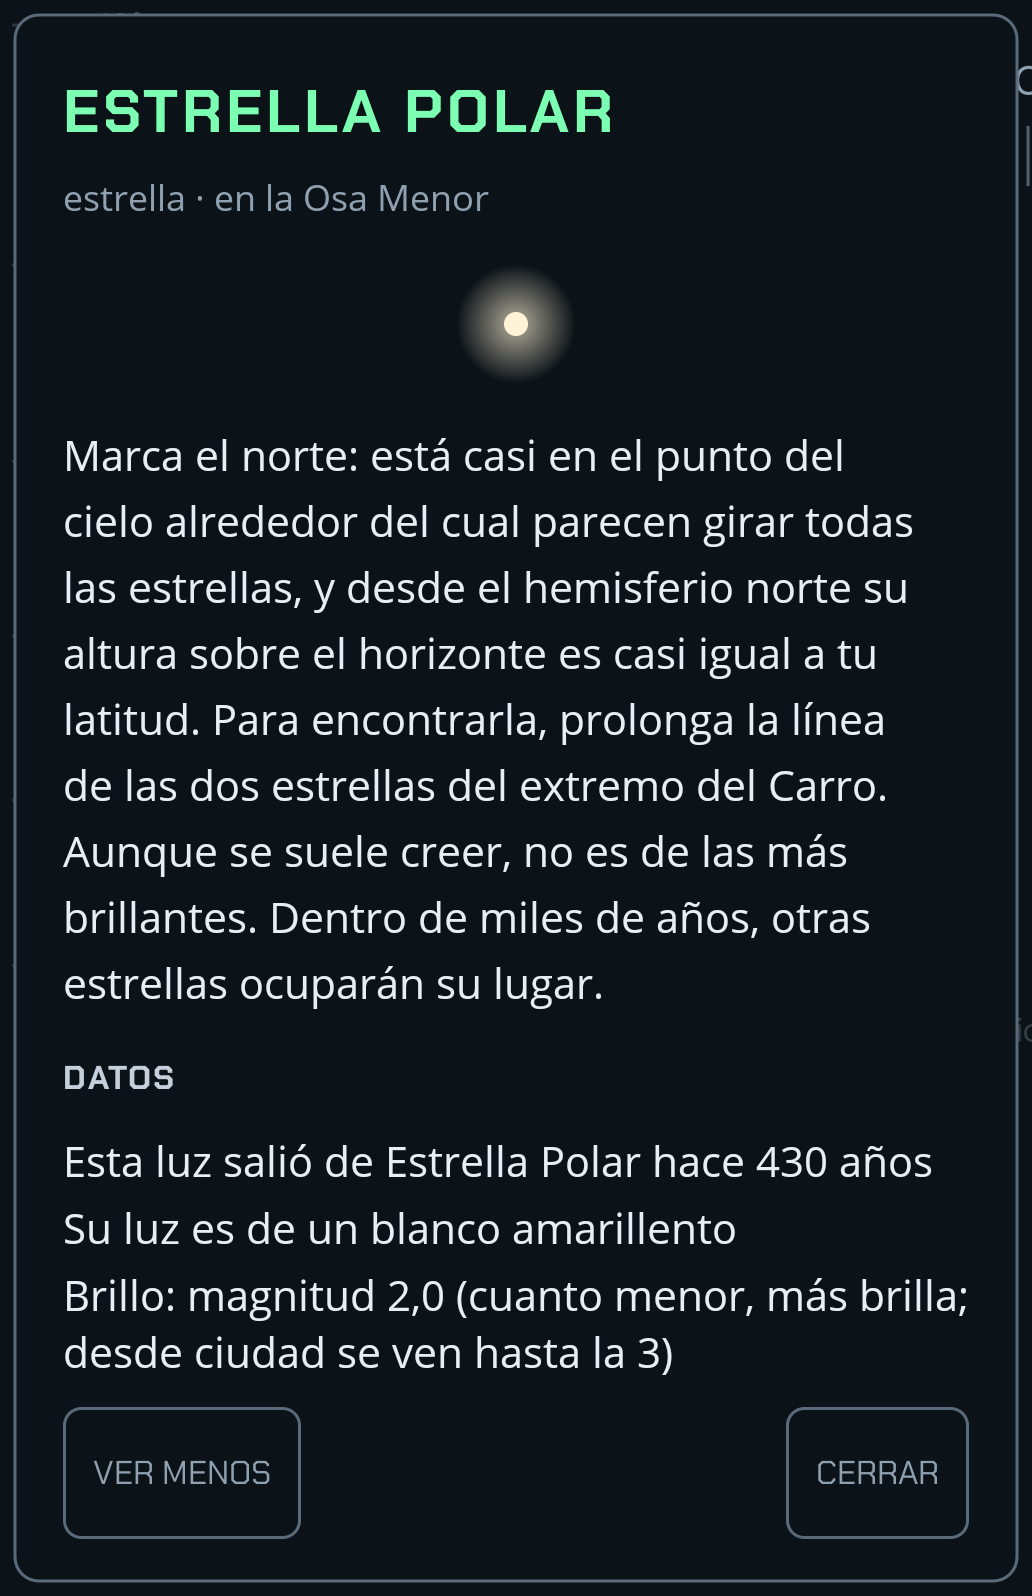
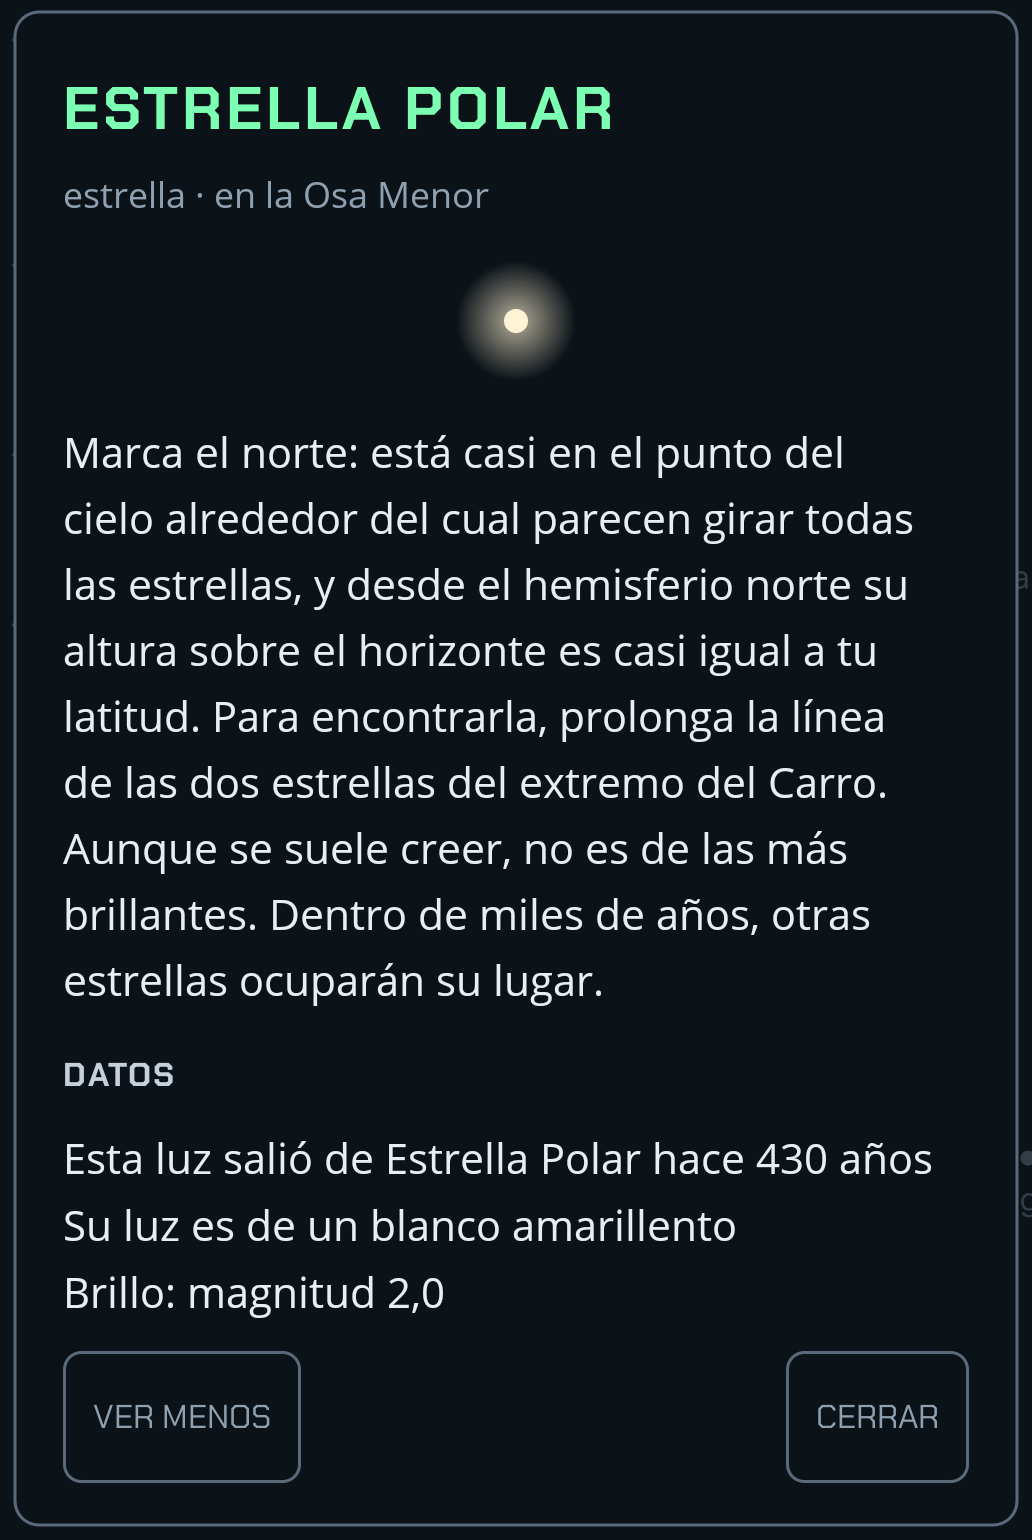
Show a star's brightness as just its magnitude
Drops the explanation of the backwards scale, at the user's request after
seeing the cards with their texts (decision 046, corrects 044).

diff --git a/src/CieloHud.Core/Cards/FactsText.cs b/src/CieloHud.Core/Cards/FactsText.cs
@@ -196,14 +196,14 @@ public static class FactsText
     };
 
     /// <summary>
-    /// "Brillo: magnitud 0,4 (cuanto menor, más brilla; desde ciudad se ven hasta la 3)". The scale runs backwards, so the
-    /// number alone would mislead; the city limit is the one the catalog is built on (decision 015).
+    /// "Brillo: magnitud 0,4". Just the number: the explanation of the backwards scale ("cuanto menor, más brilla…") was
+    /// dropped after seeing the cards with their texts (decision 046).
     /// </summary>
     public static string StarMagnitude(double magnitude)
     {
         var rounded = Math.Round(magnitude, 1, MidpointRounding.AwayFromZero);
         var number = Math.Abs(rounded).ToString("0.0", Culture).Replace('.', ',');
-        return $"Brillo: magnitud {(rounded < 0 ? "−" : "")}{number} (cuanto menor, más brilla; desde ciudad se ven hasta la 3)";
+        return $"Brillo: magnitud {(rounded < 0 ? "−" : "")}{number}";
     }
 
     /// <summary>8.64 → 8.6, 432.6 → 430, 1157 → 1200 (or 1100 rounding down).</summary>

diff --git a/tests/CieloHud.Core.Tests/Cards/StarColorsTests.cs b/tests/CieloHud.Core.Tests/Cards/StarColorsTests.cs
@@ -61,8 +61,8 @@ public class StarColorsTests
     [InlineData(0.42, "0,4")]
     [InlineData(2.02, "2,0")]
     [InlineData(-0.05, "−0,1")]
-    public void MagnitudeText_ExplainsTheBackwardsScale(double magnitude, string number)
+    public void MagnitudeText_OneDecimalWithTrueMinus(double magnitude, string number)
     {
-        Assert.Equal($"Brillo: magnitud {number} (cuanto menor, más brilla; desde ciudad se ven hasta la 3)", FactsText.StarMagnitude(magnitude));
+        Assert.Equal($"Brillo: magnitud {number}", FactsText.StarMagnitude(magnitude));
     }
 }

diff --git a/docs/DECISIONS.md b/docs/DECISIONS.md
@@ -406,7 +406,8 @@ Formato: contexto → decisión → alternativas descartadas.
 - Contexto: faltan los textos de las 155 estrellas (Fase 5, paso 9), con el formato de la decisión 037 y el mismo control que los 7 objetivos: borradores con ayuda de IA fuera del repo, revisados uno a uno. Son muchos y la mayoría no tiene la fama de un planeta: hay que fijar qué se cuenta y de dónde sale.
 - Decisión:
   - **Qué cuentan**, en dos o tres frases para el público general: lo notable de la estrella (doble, variable, supergigante, gira muy deprisa…), una comparación fácil («en el lugar del Sol, llegaría más allá de la órbita de Júpiter») y el origen del nombre o cómo encontrarla en su figura. Las estrellas con poca historia llevan textos más cortos, no relleno.
-  - **Nada de lo que ya calcula la ficha** (decisión 044): ni la distancia, ni el color de su luz, ni la magnitud. Un test impide «años luz» y «magnitud» en los textos de estrellas. El tipo («supergigante roja») sí se puede decir: es lo más notable de Betelgeuse o Antares. El puesto en brillo, cuando es notable («la quinta más brillante del cielo»), sí.
+  - **Nada de lo que ya calcula la ficha** (decisión 044): ni la distancia, ni el color de su luz, ni la magnitud. Un test impide «años luz» y «magnitud» en los textos de estrellas.
+  - **El brillo, solo con el número** (corrige 044, a petición del usuario al ver las fichas con texto): «Brillo: magnitud 2,0», sin «(cuanto menor, más brilla; desde ciudad se ven hasta la 3)». La coletilla ocupaba una segunda línea en cada ficha de estrella. El tipo («supergigante roja») sí se puede decir: es lo más notable de Betelgeuse o Antares. El puesto en brillo, cuando es notable («la quinta más brillante del cielo»), sí.
   - **Distancias inciertas**: si las fuentes no coinciden, el texto lo dice sin dar cifra. Betelgeuse: Hipparcos, unos 500 años luz (440-570); Kaler, 495 o 640 según el método; la NASA, 548, 650, 700 o 725 según la página.
   - **Nada que dependa del hemisferio** («estrella de invierno», «desde España»), salvo diciéndolo («desde el hemisferio norte sale poco antes que Sirio»): la app se usa en cualquier país.
   - **Fuentes**, con cita textual de cada dato: las páginas *Stars* de Jim Kaler (Universidad de Illinois), que cubren casi todo el catálogo; NASA o ESA donde Kaler se ha quedado antiguo (Fomalhaut b, que anunció como planeta, resultó en 2020 una nube de polvo; el oscurecimiento de Betelgeuse de 2019-2020); la NASA Planetary Fact Sheet para las comparaciones con órbitas; la RAE para palabras españolas, comprobada por el usuario. Wikipedia no se cita. Si la fuente dice menos de lo que querría el texto, manda la fuente («de las primeras dobles vistas con telescopio», no «la primera»).

diff --git a/docs/STATUS.md b/docs/STATUS.md
@@ -1074,6 +1074,8 @@ Espiga, Pólux, Fomalhaut, Deneb y Régulo) y 5 conocidas por algo concreto (Cá
   y no salía VER MÁS. Con el ancho bien descontado, la medida coincide con la altura real (441 dp en la Polar, comprobado con un registro temporal).
   Las fichas de la Luna y los planetas no lo notaban: pasan del límite con mucho margen.
   Captura: `docs/images/ficha-estrella-texto.png`.
+- Cambio pedido por el usuario al ver las fichas: el brillo va solo con el número, «Brillo: magnitud 2,0», sin la coletilla «(cuanto menor, más brilla;
+  desde ciudad se ven hasta la 3)» (decisión 046, corrige 044).
 - `dotnet test` 794 tests; build Android 0 avisos.
 
 ## Mejoras fuera de fase
